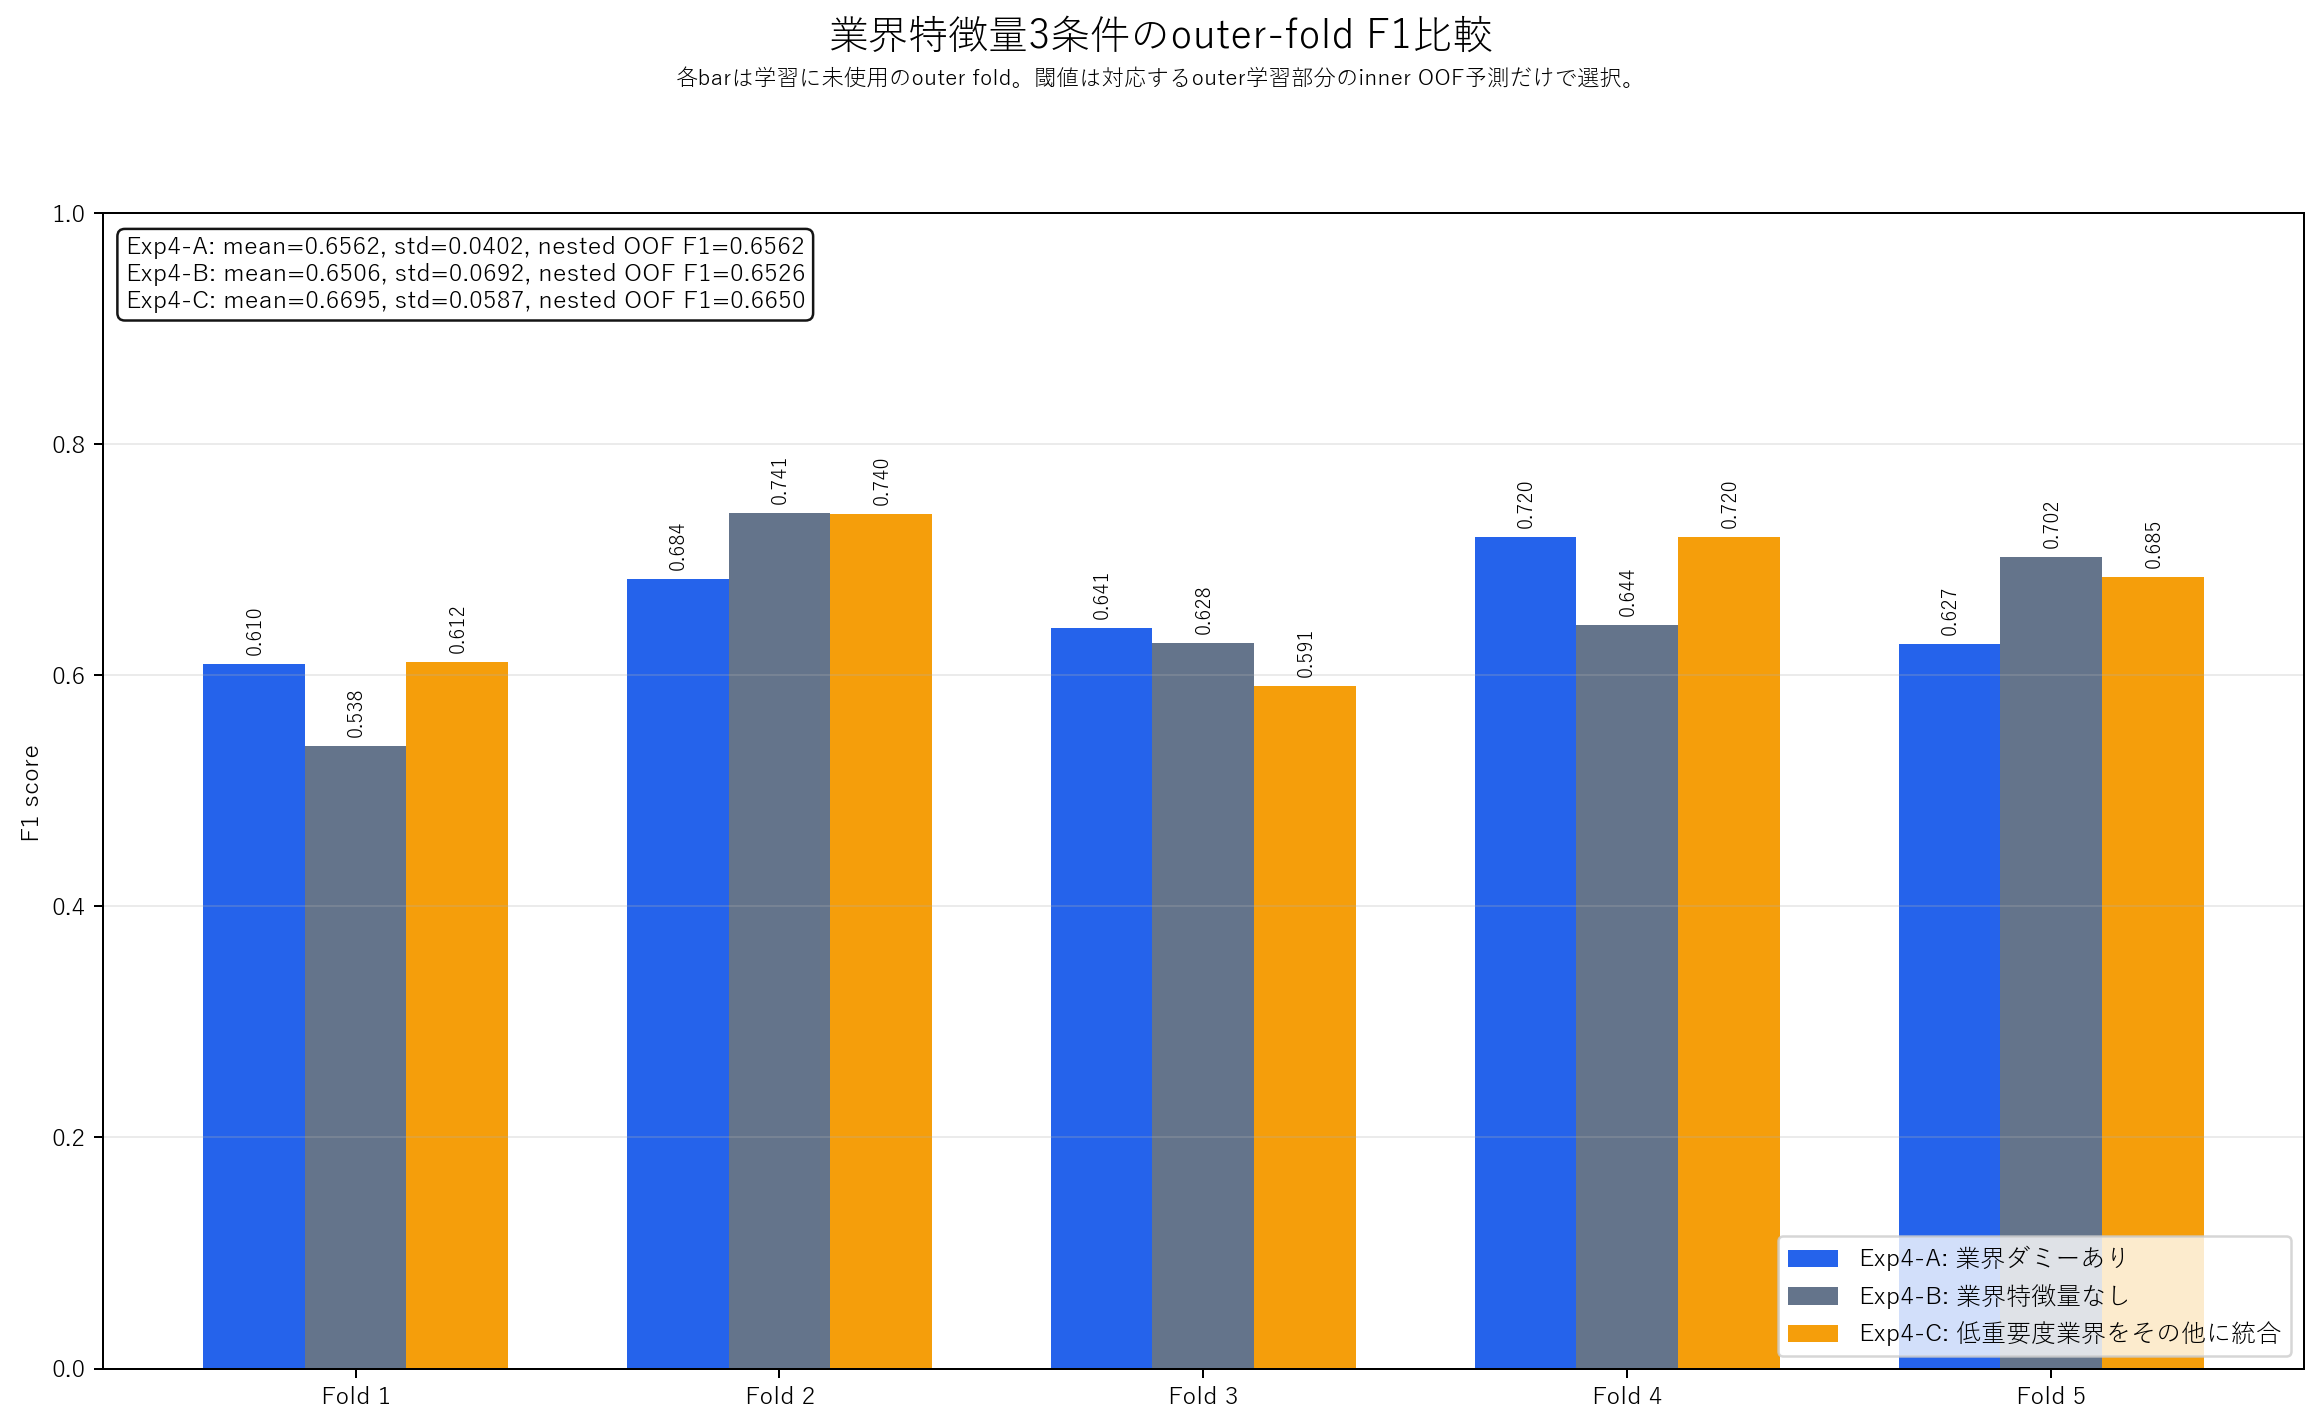
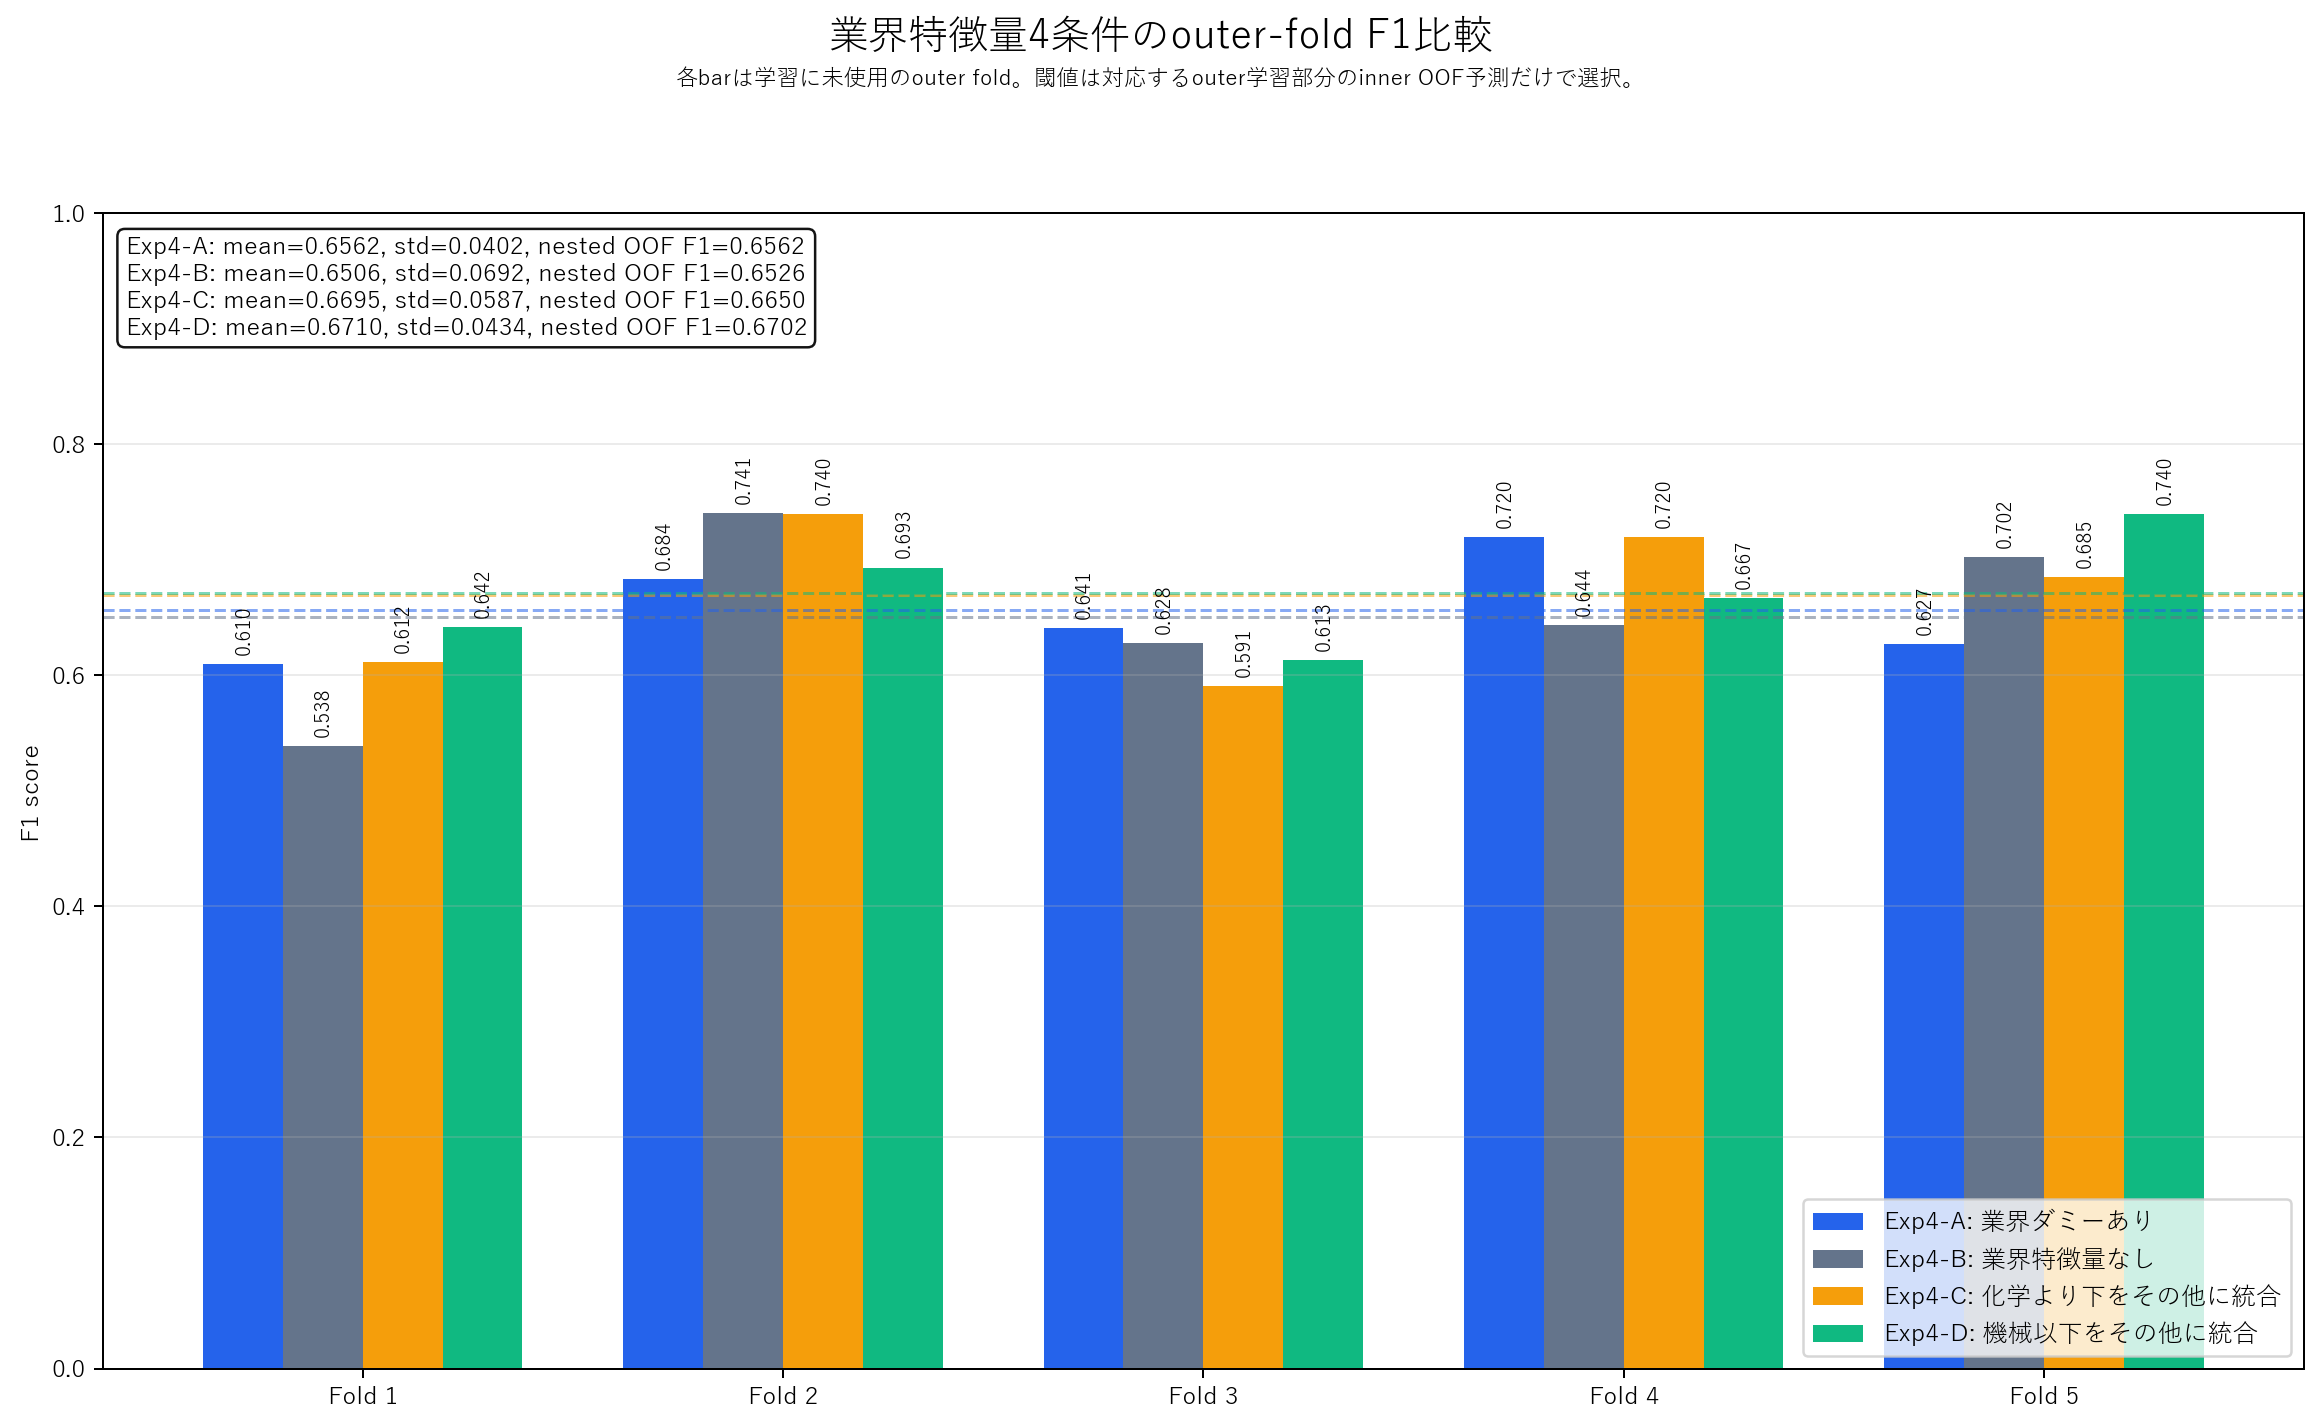
実験１～６を基に冗長な特徴量や重要度の低い特徴量を削除し、暫定的に特徴量を設定した。その特徴量を計算するコードを作った。

Changed region(s): [[0.062, 0.3392, 0.9927, 0.9867], [0.031, 0.2158, 0.3723, 0.2467]]

diff --git a/experiments/exp4.py b/experiments/exp4.py
@@ -7,6 +7,7 @@
 - 業界ダミーが汎化性能を改善するか、同一のネステッドCV分割で比較する。
 - Exp4-Aは業界ダミーあり、Exp4-Bは業界特徴量なし、Exp4-Cは過去のexp1重要度で
   「業界_化学」より下だったカテゴリを「その他」に統合する。
+- Exp4-Dは「業界_機械」以下（機械を含む）を「その他」に統合する。
 - Aの平均F1が高くてもfold間標準偏差が大きい場合は、少数業界への過適合を疑う。
 
 Exp4-Cの事前固定ルール:
@@ -15,6 +16,10 @@ Exp4-Cの事前固定ルール:
 - 上記以外の業界は「その他」に統合する。
 - このルールはexp1の重要度順位から実験前に固定し、今回の目的変数やCV結果から
   選び直さない。
+
+Exp4-Dの事前固定ルール:
+- 個別に残す業界: 自動車・乗り物、IT、建設・工事、商社。
+- 機械および重要度順位が機械より下の業界は「その他」に統合する。
 
 特徴量・前処理:
 - calc_featuresのうちdx_outlook.pyを除く5モジュールをexp1と同じ順序で使用する。
@@ -33,9 +38,9 @@ Exp4-Cの事前固定ルール:
 - experiments/results/exp4/f1_scores.png
 - CSV/JSON、予測値、submissionは出力しない。
 
-実行結果（2026-08-08実行後に更新）:
-- 入力特徴量数: A=22、B=21、C=22。
-- 変換後特徴量数: A=55、B=24、C=33。
+実行結果（2026-08-09、Exp4-D追加後）:
+- 入力特徴量数: A=22、B=21、C=22、D=22。
+- 変換後特徴量数: A=55、B=24、C=33、D=29。
 - 全欠損のため除外した特徴量: 人材不足フラグ、予算制約フラグ、組織部門数、
   組織階層数、業務種類数、現場課題数、システム刷新フラグ、導入時期フラグ。
 - Exp4-A: fold閾値=0.275/0.235/0.285/0.375/0.340、
@@ -47,8 +52,12 @@ Exp4-Cの事前固定ルール:
 - Exp4-C: fold閾値=0.270/0.300/0.220/0.375/0.330、
   fold F1=0.6118/0.7397/0.5909/0.7200/0.6849、平均=0.6695、標準偏差=0.0587、
   nested OOF F1=0.6650、最終閾値=0.2990。
-- 解釈: CはA比で平均F1が+0.0133、nested OOF F1が+0.0088だが、fold標準偏差は
-  +0.0185。低重要度業界の統合は有望だが、Aより安定とはいえず追加seedでの確認が必要。
+- Exp4-D: fold閾値=0.270/0.270/0.310/0.435/0.270、
+  fold F1=0.6420/0.6933/0.6133/0.6667/0.7397、平均=0.6710、標準偏差=0.0434、
+  nested OOF F1=0.6702、最終閾値=0.3110。
+- 解釈: Dは平均F1とnested OOF F1が4条件中で最高。標準偏差もCの0.0587から
+  0.0434へ低下し、最も安定していたAの0.0402に近い。今回のseedでは、機械以下を
+  統合するDが性能と安定性のバランスで最も有望だが、差は小さいため追加seedでの確認が必要。
 """
 
 from __future__ import annotations
@@ -90,7 +99,7 @@ INDUSTRY_COLUMN = "業界"
 OTHER_INDUSTRY_LABEL = "その他"
 
 # exp1の平均split importanceで「業界_化学」以上だったカテゴリを事前固定する。
-RETAINED_INDUSTRIES = frozenset(
+RETAINED_INDUSTRIES_C = frozenset(
     {
         "自動車・乗り物",
         "IT",
@@ -103,10 +112,21 @@ RETAINED_INDUSTRIES = frozenset(
     }
 )
 
+# exp1の平均split importanceで「業界_機械」より上だったカテゴリだけを残す。
+RETAINED_INDUSTRIES_D = frozenset(
+    {
+        "自動車・乗り物",
+        "IT",
+        "建設・工事",
+        "商社",
+    }
+)
+
 CONDITIONS = {
     "Exp4-A": "業界ダミーあり",
     "Exp4-B": "業界特徴量なし",
-    "Exp4-C": "低重要度業界をその他に統合",
+    "Exp4-C": "化学より下をその他に統合",
+    "Exp4-D": "機械以下をその他に統合",
 }
 
 MODEL_PARAMS = {
@@ -160,14 +180,19 @@ def prepare_base_features(
 
 
 def apply_condition(features: pd.DataFrame, condition: str) -> pd.DataFrame:
-    """A/B/Cの業界特徴量ルールを適用したコピーを返す。"""
+    """A/B/C/Dの業界特徴量ルールを適用したコピーを返す。"""
     result = features.copy()
     if condition == "Exp4-B":
         return result.drop(columns=[INDUSTRY_COLUMN])
-    if condition == "Exp4-C":
+    if condition in {"Exp4-C", "Exp4-D"}:
+        retained_industries = (
+            RETAINED_INDUSTRIES_C
+            if condition == "Exp4-C"
+            else RETAINED_INDUSTRIES_D
+        )
         industry = result[INDUSTRY_COLUMN].astype("string")
         result[INDUSTRY_COLUMN] = industry.where(
-            industry.isin(RETAINED_INDUSTRIES), OTHER_INDUSTRY_LABEL
+            industry.isin(retained_industries), OTHER_INDUSTRY_LABEL
         )
     elif condition != "Exp4-A":
         raise ValueError(f"未知の比較条件です: {condition}")
@@ -289,7 +314,7 @@ def calculate_inner_threshold(
 
 
 # ==================================================
-# 5. ネステッドCV・3条件比較
+# 5. ネステッドCV・4条件比較
 # ==================================================
 
 def run_nested_cv(
@@ -394,14 +419,14 @@ def configure_japanese_font() -> str:
 def plot_feature_importance(
     results_by_condition: dict[str, dict[str, object]],
 ) -> None:
-    """3条件の全変換後特徴量を、条件別パネルに描く。"""
+    """4条件の全変換後特徴量を、条件別パネルに描く。"""
     max_feature_count = max(
         len(result["feature_importance"])
         for result in results_by_condition.values()
     )
     figure_height = max(8.0, 0.36 * max_feature_count + 2.5)
-    fig, axes = plt.subplots(1, 3, figsize=(28, figure_height), squeeze=False)
-    colors = ("#2563EB", "#64748B", "#F59E0B")
+    fig, axes = plt.subplots(1, 4, figsize=(36, figure_height), squeeze=False)
+    colors = ("#2563EB", "#64748B", "#F59E0B", "#10B981")
     for ax, (condition, label), color in zip(
         axes[0], CONDITIONS.items(), colors
     ):
@@ -440,12 +465,12 @@ def plot_f1_scores(
 ) -> None:
     """outer foldごとのF1と各条件の要約を描く。"""
     folds = np.arange(1, OUTER_N_SPLITS + 1)
-    width = 0.24
-    colors = ("#2563EB", "#64748B", "#F59E0B")
+    width = 0.19
+    colors = ("#2563EB", "#64748B", "#F59E0B", "#10B981")
     fig, ax = plt.subplots(figsize=(13, 8))
     for index, ((condition, label), color) in enumerate(zip(CONDITIONS.items(), colors)):
         result = results_by_condition[condition]
-        positions = folds + (index - 1) * width
+        positions = folds + (index - 1.5) * width
         bars = ax.bar(
             positions,
             result["fold_scores"],
@@ -463,6 +488,13 @@ def plot_f1_scores(
                 rotation=90,
                 fontsize=8,
             )
+        ax.axhline(
+            result["mean_f1"],
+            color=color,
+            linestyle="--",
+            linewidth=1.2,
+            alpha=0.55,
+        )
     summaries = []
     for condition in CONDITIONS:
         result = results_by_condition[condition]
@@ -480,7 +512,7 @@ def plot_f1_scores(
         fontsize=10,
         bbox={"boxstyle": "round", "facecolor": "white", "alpha": 0.92},
     )
-    fig.suptitle("業界特徴量3条件のouter-fold F1比較", fontsize=16, y=0.985)
+    fig.suptitle("業界特徴量4条件のouter-fold F1比較", fontsize=16, y=0.985)
     fig.text(
         0.5,
         0.95,
@@ -545,7 +577,8 @@ def main() -> None:
     print(f"Japanese plot font: {font_name}")
     print(f"Positive rate: {y.mean():.4%}")
     print(f"Base input features: {len(base_train.columns)}; excluded all-missing: {excluded}")
-    print(f"Exp4-C retained industries: {sorted(RETAINED_INDUSTRIES)}")
+    print(f"Exp4-C retained industries: {sorted(RETAINED_INDUSTRIES_C)}")
+    print(f"Exp4-D retained industries: {sorted(RETAINED_INDUSTRIES_D)}")
     for condition in CONDITIONS:
         X, _, _ = feature_sets[condition]
         result = results_by_condition[condition]

diff --git a/calc_features/all_features_v1.py b/calc_features/all_features_v1.py
@@ -1,0 +1,75 @@
+"""実験3・4の結果を反映した、学習用特徴量セット v1 を生成する。"""
+
+from __future__ import annotations
+
+import pandas as pd
+
+from .adoption_barriers import calculate_adoption_barrier_features
+from .excute_capacity import calculate_execution_features
+from .motivation import calculate_motivation_features
+from .necessity import calculate_necessity_features
+from .purchase_timing import calculate_purchase_timing_features
+
+
+INDUSTRY_COLUMN = "業界"
+OTHER_INDUSTRY_LABEL = "その他"
+
+# 実験4の平均split importanceで「業界_機械」より上だった業界だけを残す。
+# したがって「機械」自体と、それより重要度が低かった業界は「その他」になる。
+RETAINED_INDUSTRIES = frozenset(
+    {
+        "自動車・乗り物",
+        "IT",
+        "建設・工事",
+        "商社",
+    }
+)
+
+# 実験3で除外した全行欠損特徴量と重複候補。
+EXCLUDED_FEATURE_COLUMNS = (
+    "人材不足フラグ",
+    "予算制約フラグ",
+    "組織部門数",
+    "組織階層数",
+    "業務種類数",
+    "現場課題数",
+    "システム刷新フラグ",
+    "導入時期フラグ",
+    "従業員規模",
+    "現行ツール状態",
+    "赤字・CF不足フラグ",
+)
+
+
+def all_features_v1(df: pd.DataFrame) -> pd.DataFrame:
+    """実験3・4で採用したルールを一括適用して19特徴量を返す。
+
+    ``dx_outlook.py`` を除く5モジュールの特徴量を生成し、実験3で指定した
+    11特徴量を除外する。さらに、業界は実験4-Dに従い「機械」以下の重要度
+    だったカテゴリを「その他」に統合する。入力DataFrameは変更しない。
+    """
+    features = pd.concat(
+        [
+            calculate_execution_features(df),
+            calculate_motivation_features(df),
+            calculate_adoption_barrier_features(df),
+            calculate_necessity_features(df),
+            calculate_purchase_timing_features(df),
+        ],
+        axis=1,
+    ).drop(columns=list(EXCLUDED_FEATURE_COLUMNS))
+
+    industry = features[INDUSTRY_COLUMN].astype("string")
+    features[INDUSTRY_COLUMN] = industry.where(
+        industry.isin(RETAINED_INDUSTRIES), OTHER_INDUSTRY_LABEL
+    )
+    return features
+
+
+__all__ = [
+    "EXCLUDED_FEATURE_COLUMNS",
+    "INDUSTRY_COLUMN",
+    "OTHER_INDUSTRY_LABEL",
+    "RETAINED_INDUSTRIES",
+    "all_features_v1",
+]

diff --git a/calc_features/test_all_features_v1.py b/calc_features/test_all_features_v1.py
@@ -1,0 +1,70 @@
+import unittest
+from unittest.mock import patch
+
+import pandas as pd
+
+from calc_features.all_features_v1 import (
+    EXCLUDED_FEATURE_COLUMNS,
+    all_features_v1,
+)
+
+
+class AllFeaturesV1Test(unittest.TestCase):
+    def test_excludes_columns_and_groups_machine_or_lower_industries(self) -> None:
+        source = pd.DataFrame(index=[10, 20, 30, 40, 50])
+        industries = pd.Series(
+            ["自動車・乗り物", "IT", "商社", "機械", "化学"],
+            index=source.index,
+            dtype="string",
+        )
+        excluded = {
+            column: pd.Series(range(5), index=source.index)
+            for column in EXCLUDED_FEATURE_COLUMNS
+        }
+
+        frames = [
+            pd.DataFrame({"営業利益率": range(5)}, index=source.index),
+            pd.DataFrame({"DX戦略明確度": range(5)}, index=source.index),
+            pd.DataFrame(excluded, index=source.index),
+            pd.DataFrame(
+                {"業界": industries, "拠点総数": range(5)}, index=source.index
+            ),
+            pd.DataFrame({"DX全体不満度": range(5)}, index=source.index),
+        ]
+        patch_targets = [
+            "calculate_execution_features",
+            "calculate_motivation_features",
+            "calculate_adoption_barrier_features",
+            "calculate_necessity_features",
+            "calculate_purchase_timing_features",
+        ]
+
+        patchers = [
+            patch(f"calc_features.all_features_v1.{name}", return_value=frame)
+            for name, frame in zip(patch_targets, frames)
+        ]
+        for patcher in patchers:
+            patcher.start()
+            self.addCleanup(patcher.stop)
+
+        actual = all_features_v1(source)
+
+        self.assertEqual(actual.index.tolist(), source.index.tolist())
+        self.assertTrue(set(EXCLUDED_FEATURE_COLUMNS).isdisjoint(actual.columns))
+        self.assertEqual(
+            actual["業界"].tolist(),
+            ["自動車・乗り物", "IT", "商社", "その他", "その他"],
+        )
+
+    def test_does_not_modify_input(self) -> None:
+        train = pd.read_csv("data/train.csv", nrows=3)
+        original = train.copy(deep=True)
+
+        actual = all_features_v1(train)
+
+        pd.testing.assert_frame_equal(train, original)
+        self.assertEqual(actual.shape, (3, 19))
+
+
+if __name__ == "__main__":
+    unittest.main()

diff --git a/calc_features/__init__.py b/calc_features/__init__.py
@@ -12,6 +12,12 @@ from .motivation import (
     calculate_motivation_features,
 )
 
+from .all_features_v1 import (
+    EXCLUDED_FEATURE_COLUMNS,
+    RETAINED_INDUSTRIES,
+    all_features_v1,
+)
+
 __all__ = [
     "ADOPTION_BARRIER_FEATURE_COLUMNS",
     "add_adoption_barrier_features",
@@ -19,4 +25,7 @@ __all__ = [
     "MOTIVATION_FEATURE_COLUMNS",
     "add_motivation_features",
     "calculate_motivation_features",
+    "EXCLUDED_FEATURE_COLUMNS",
+    "RETAINED_INDUSTRIES",
+    "all_features_v1",
 ]
